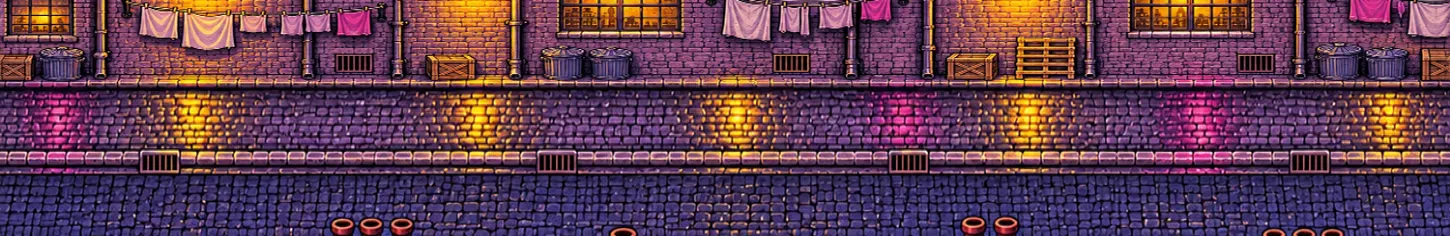
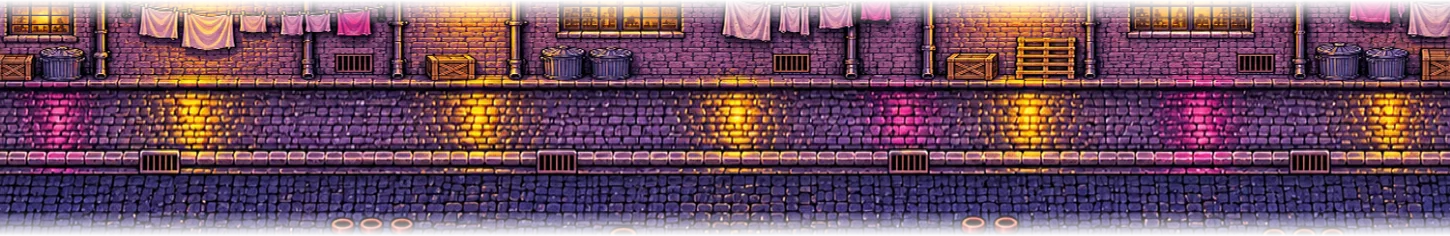
Soften seam lanes and closed arms; keep ring supports off built-over streets
Seam strips are baked with their long edges faded out, and the frontage that
closes an arm is pasted with faded cut edges. The Petite Ceinture's side
supports stand only where a cross street runs beneath the deck. The stitched
overview takes each tile's minimap corner from a second frame.

Changed region(s): [[0.0, 0.8898, 1.0, 1.0], [0.0, 0.0, 1.0, 0.1186]]

diff --git a/src/world/streets.js b/src/world/streets.js
@@ -188,6 +188,32 @@ function blit(ctx, plate, left, top, w, h, dx, dy, dw = w, dh = h) {
   );
 }
 
+// The same copy with its cut edges faded out over `soft` units, so that a pasted frontage
+// melts into the painting around it. `edges` names the faded sides: l, r, t, b.
+const scrap = document.createElement("canvas"),
+  scrapContext = scrap.getContext("2d");
+function blitSoft(ctx, plate, left, top, w, h, dx, dy, edges, soft = 5) {
+  const pw = Math.round(w * plateScale),
+    ph = Math.round(h * plateScale),
+    f = soft * plateScale;
+  scrap.width = pw;
+  scrap.height = ph;
+  scrapContext.drawImage(plate, (left + CELL_W / 2) * plateScale, (top + CELL_H / 2) * plateScale, pw, ph, 0, 0, pw, ph);
+  scrapContext.globalCompositeOperation = "destination-in";
+  for (const edge of edges) {
+    const across = edge === "l" || edge === "r",
+      far = edge === "r" || edge === "b";
+    const size = across ? pw : ph;
+    const fade = scrapContext.createLinearGradient(0, 0, across ? pw : 0, across ? 0 : ph);
+    fade.addColorStop(far ? 1 - f / size : 0, far ? "#000" : "#0000");
+    fade.addColorStop(far ? 1 : f / size, far ? "#0000" : "#000");
+    scrapContext.fillStyle = fade;
+    scrapContext.fillRect(0, 0, pw, ph);
+  }
+  scrapContext.globalCompositeOperation = "source-over";
+  ctx.drawImage(scrap, dx, dy, w, h);
+}
+
 // A painting shows four road arms. Where the road graph has none, the block closes over the
 // arm with a stretch of the painting's own frontage: the kerb and pavement run on unbroken.
 const capHalf = 25.6;
@@ -203,15 +229,17 @@ function drawArmCaps(ctx, col, row) {
   // North and south: a slice from the middle of a neighbouring block, moved along the street.
   const slice = (col + row) % 2 ? 74 : -74;
   if (!arms.n && shows("n") && row !== town.riverSouthRow)
-    blit(ctx, plate, 74 - capHalf, -CELL_H / 2, 2 * capHalf, CELL_H / 2 - 16.3, cx - capHalf, cy - CELL_H / 2);
+    blitSoft(ctx, plate, 74 - capHalf - 3, -CELL_H / 2, 2 * capHalf + 6, CELL_H / 2 - 16.3, cx - capHalf - 3, cy - CELL_H / 2, "lr");
   if (!arms.s && shows("s"))
-    blit(ctx, plate, slice - capHalf, 16.3, 2 * capHalf, CELL_H / 2 - 16.3, cx - capHalf, cy + 16.3);
+    blitSoft(ctx, plate, slice - capHalf - 3, 16.3, 2 * capHalf + 6, CELL_H / 2 - 16.3, cx - capHalf - 3, cy + 16.3, "lr");
   // East and west: the block to the south, with its pavement on the cross street, moved up
   // across the roadway. Its roof stands in front of the shopfronts behind, as roofs do.
   const from = painting.capFrom ?? 46,
     depth = CELL_H / 2 - from;
-  if (!arms.e && shows("e")) blit(ctx, plate, 17.1, from, CELL_W / 2 - 17.1, depth, cx + 17.1, cy + 26 - depth);
-  if (!arms.w && shows("w")) blit(ctx, plate, -CELL_W / 2, from, CELL_W / 2 - 17.1, depth, cx - CELL_W / 2, cy + 26 - depth);
+  if (!arms.e && shows("e"))
+    blitSoft(ctx, plate, 17.1, from, CELL_W / 2 - 17.1, depth, cx + 17.1, cy + 26 - depth, arms.n || arms.s ? "tb" : "tbl");
+  if (!arms.w && shows("w"))
+    blitSoft(ctx, plate, -CELL_W / 2, from, CELL_W / 2 - 17.1, depth, cx - CELL_W / 2, cy + 26 - depth, arms.n || arms.s ? "tb" : "tbr");
 }
 
 // Painted ruelle strips. Both repeat along their length, one cell per repeat.

diff --git a/tools/art/scenery-bake/page.js b/tools/art/scenery-bake/page.js
@@ -204,6 +204,22 @@
     );
     return grade(plate, "alley");
   };
+  // A seam strip lies over the join of two paintings. Its long edges fade out over 5 units,
+  // so that the lane's back walls melt into the facades they cover.
+  function softEdges(strip, vertical, soft = 5 * P) {
+    const ctx = strip.getContext("2d"),
+      size = vertical ? strip.width : strip.height;
+    const fade = ctx.createLinearGradient(0, 0, vertical ? size : 0, vertical ? 0 : size);
+    fade.addColorStop(0, "#0000");
+    fade.addColorStop(soft / size, "#000");
+    fade.addColorStop(1 - soft / size, "#000");
+    fade.addColorStop(1, "#0000");
+    ctx.globalCompositeOperation = "destination-in";
+    ctx.fillStyle = fade;
+    ctx.fillRect(0, 0, strip.width, strip.height);
+    ctx.globalCompositeOperation = "source-over";
+    return strip;
+  }
   // Seam strips at their painted scale, lane centred.
   recipes.alleyStripV = async () => {
     const [left, centre, right] = entry("alleyStripV").kerbs.x;
@@ -216,7 +232,7 @@
       [0, side, side + ALLEY, side + 2 * ALLEY, side + 2 * ALLEY + far],
       [0, CH],
     );
-    return grade(strip, "alley");
+    return softEdges(grade(strip, "alley"), true);
   };
   recipes.alleyStripH = async () => {
     const [top, centre, bottom] = entry("alleyStripH").kerbs.y;
@@ -229,7 +245,7 @@
       [0, CW],
       [0, side, side + ALLEY, side + 2 * ALLEY, side + 2 * ALLEY + far],
     );
-    return grade(strip, "alley");
+    return softEdges(grade(strip, "alley"), false);
   };
 
   // Horizontal ring viaduct. Railheads and pier feet land on town.ring (deck 40 above the feet).

diff --git a/src/world/viaduct.js b/src/world/viaduct.js
@@ -131,8 +131,13 @@ export function buildRingPiers(layout) {
     ["east", right],
   ]) {
     const support = sideSupports[side];
+    // The supports stand on the kerbs of a cross street; where the block is built over
+    // there is none, and the deck spans on to the next street.
+    const west = Math.floor((vx - X(0)) / CELL_W);
+    const crossStreet = (row) =>
+      !layout.roads || layout.roads.edges.some((e) => [e.a, e.b].sort().join() === [`c${west}r${row}`, `c${west + 1}r${row}`].sort().join());
     for (let row = northRow + 1; row < southRow; row++) {
-      if (row === layout.riverRow) continue;
+      if (row === layout.riverRow || !crossStreet(row)) continue;
       for (const dy of support.feet)
         for (const dx of [support.dx].flat()) {
           const x = vx + dx,
